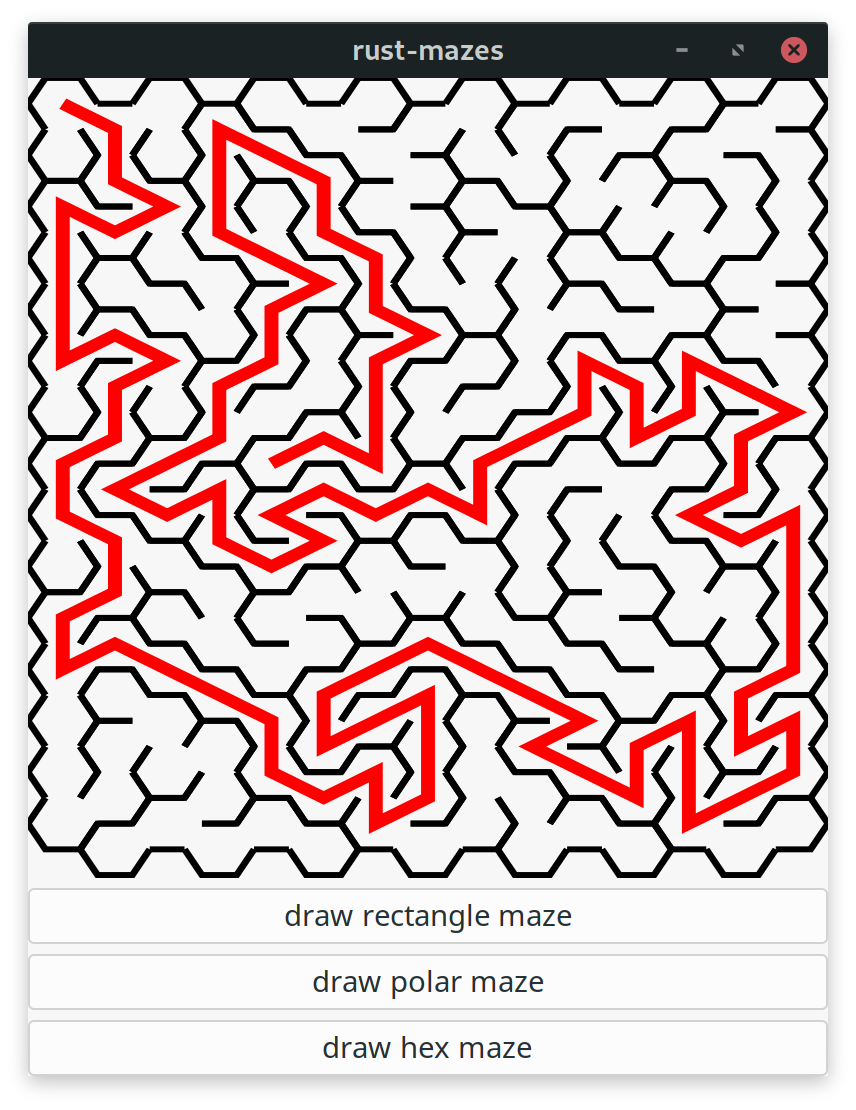
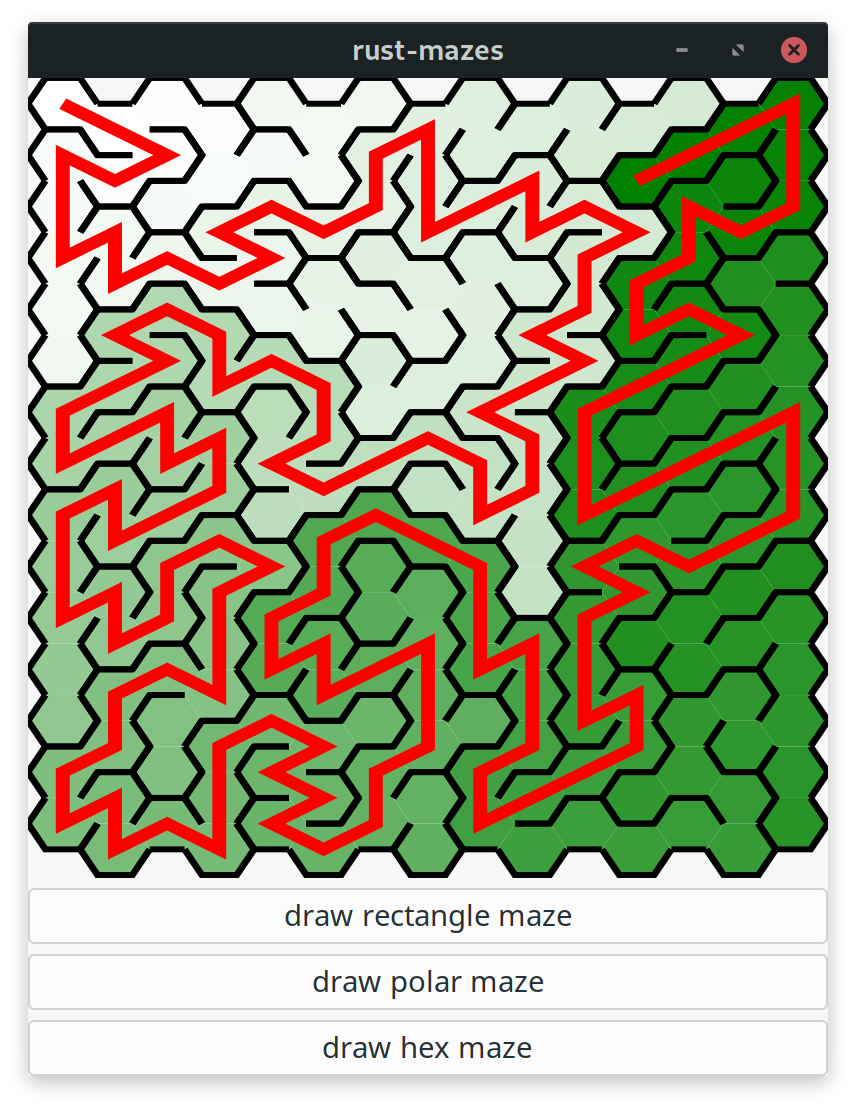
color hex grid

diff --git a/src/hexagonal.rs b/src/hexagonal.rs
@@ -157,6 +157,49 @@ impl HexagonalGrid {
     }
 }
 
+fn center_coords(row: usize, col: usize, cellsize: f64) -> (f64, f64) {
+    let a = cellsize / 2.;
+    let b = cellsize * 3f64.sqrt() / 2.;
+
+    let cx = cellsize + 3. * col as f64 * a;
+    let cy = b + row as f64 * 2. * b + (if col % 2 == 0 { 0. } else { b });
+
+    (cx, cy)
+}
+
+struct HexagonalCoords {
+    pub x_fw: f64,
+    pub x_nw: f64,
+    pub x_ne: f64,
+    pub x_fe: f64,
+
+    pub y_s: f64,
+    pub y_n: f64,
+    pub y_m: f64,
+
+    pub cx: f64,
+    pub cy: f64,
+}
+
+fn hex_points(row: usize, col: usize, cellsize: f64) -> HexagonalCoords {
+    let (cx, cy) = center_coords(row, col, cellsize);
+    let a = cellsize / 2.;
+    let b = cellsize * 3f64.sqrt() / 2.;
+
+    let x_fw = cx - cellsize;
+    let x_nw = cx - a;
+    let x_ne = cx + a;
+    let x_fe = cx + cellsize;
+
+    let y_n = cy - b;
+    let y_m = cy;
+    let y_s = cy + b;
+
+    HexagonalCoords {
+        x_fw, x_nw, x_ne, x_fe, y_s, y_n, y_m, cx, cy
+    }
+}
+
 pub fn draw_maze(w: &DrawingArea, cr: &Context, g: &HexagonalGrid, cellsize: f64) {
     cr.save();
     let a = cellsize / 2.;
@@ -177,26 +220,15 @@ pub fn draw_maze(w: &DrawingArea, cr: &Context, g: &HexagonalGrid, cellsize: f64
             _ => cr.move_to(end.0, end.1),
         };
 
-        let cx = cellsize + 3. * cur_cell.col() as f64 * a;
-        let cy =
-            b + cur_cell.row() as f64 * 2. * b + (if cur_cell.col() % 2 == 0 { 0. } else { b });
+        let coords = hex_points(cur_cell.row(), cur_cell.col(), cellsize);
 
-        let x_fw = cx - cellsize;
-        let x_nw = cx - a;
-        let x_ne = cx + a;
-        let x_fe = cx + cellsize;
-
-        let y_n = cy - b;
-        let y_m = cy;
-        let y_s = cy + b;
-
-        cr.move_to(x_fw, y_m);
-        draw_line(&g.southwest_ix(ix), (x_nw, y_s));
-        draw_line(&g.south_ix(ix), (x_ne, y_s));
-        draw_line(&g.southeast_ix(ix), (x_fe, y_m));
-        draw_line(&g.northeast_ix(ix), (x_ne, y_n));
-        draw_line(&g.north_ix(ix), (x_nw, y_n));
-        draw_line(&g.northwest_ix(ix), (x_fw, y_m));
+        cr.move_to(coords.x_fw, coords.y_m);
+        draw_line(&g.southwest_ix(ix), (coords.x_nw, coords.y_s));
+        draw_line(&g.south_ix(ix), (coords.x_ne, coords.y_s));
+        draw_line(&g.southeast_ix(ix), (coords.x_fe, coords.y_m));
+        draw_line(&g.northeast_ix(ix), (coords.x_ne, coords.y_n));
+        draw_line(&g.north_ix(ix), (coords.x_nw, coords.y_n));
+        draw_line(&g.northwest_ix(ix), (coords.x_fw, coords.y_m));
         cr.stroke();
     }
 
@@ -236,25 +268,43 @@ pub fn draw_pathfind(
         }
     }
 
-    let coords = |ix: i32| {
+    let coords = |ix: usize| {
         let row = g.cell(ix as usize).row();
         let col = g.cell(ix as usize).col();
-        (
-            cellsize + 3. * col as f64 * a,
-            b + row as f64 * 2. * b + (if col % 2 == 0 { 0. } else { b }),
-        )
+        hex_points(row, col, cellsize)
     };
 
+    for (i, c) in step_state.cell_weights.iter().enumerate() {
+        let intensity = (max_length - c.path_length) as f64 / max_length as f64;
+        let dark = intensity;
+        let bright = 0.5 + intensity / 2.;
+        cr.set_source_rgb(dark, bright, dark);
+        cr.set_line_width(0.1);
+        // cr.set_source_rgb(1., 1., 0.);
+        let coords = coords(i);
+
+        cr.move_to(coords.x_fw, coords.y_m);
+        cr.line_to(coords.x_nw, coords.y_s);
+        cr.line_to(coords.x_ne, coords.y_s);
+        cr.line_to(coords.x_fe, coords.y_m);
+        cr.line_to(coords.x_ne, coords.y_n);
+        cr.line_to(coords.x_nw, coords.y_n);
+        cr.line_to(coords.x_fw, coords.y_m);
+        cr.fill();
+    }
+
+
+
     if step_state.cell_weights[max_idx].parent >= 0 {
-        let mut cur_cell = max_idx as i32;
+        let mut cur_cell = max_idx;
         cr.set_source_rgb(1., 0., 0.);
         cr.set_line_width(4.0);
-        let (x1, y1) = coords(cur_cell);
-        cr.move_to(x1, y1);
-        while cur_cell != (min_idx as i32) {
-            let (x2, y2) = coords(step_state.cell_weights[cur_cell as usize].parent);
-            cr.line_to(x2, y2);
-            cur_cell = step_state.cell_weights[cur_cell as usize].parent;
+        let coords_1 = coords(cur_cell);
+        cr.move_to(coords_1.cx, coords_1.cy);
+        while cur_cell != (min_idx as usize) {
+            let coords_2 = coords(step_state.cell_weights[cur_cell].parent as usize);
+            cr.line_to(coords_2.cx, coords_2.cy);
+            cur_cell = step_state.cell_weights[cur_cell].parent as usize;
         }
         cr.stroke();
     }
